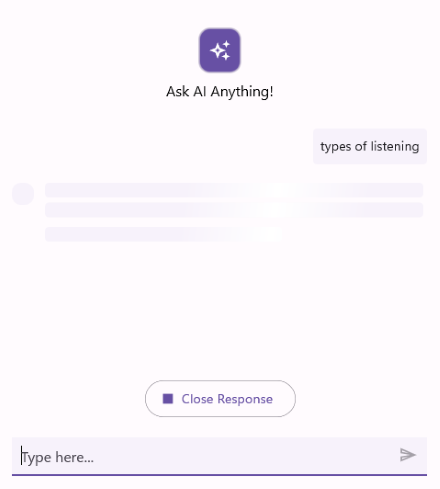
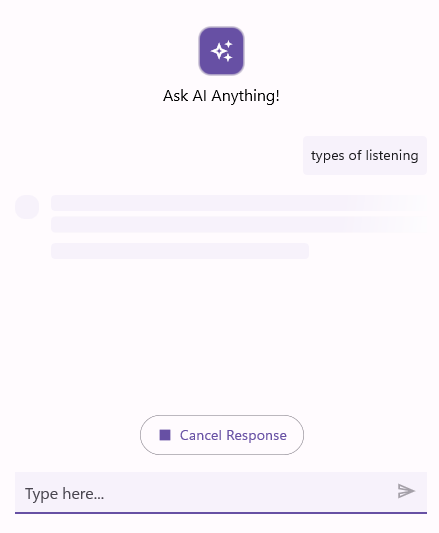
adding review corrections

diff --git a/MAUI/AIAssistView/working-with-aiassistview.md b/MAUI/AIAssistView/working-with-aiassistview.md
@@ -120,7 +120,7 @@ The `SfAIAssistView` control allows you to set custom text for the StopRespondin
 {% highlight xaml tabtitle="MainPage.xaml" hl_lines="2" %}
 
     <syncfusion:SfAIAssistView x:Name="sfAIAssistView"
-                               StopRespondingText="Close Response"/>  
+                               StopRespondingText="Cancel Response"/>  
 
 {% endhighlight %} 
 
@@ -131,7 +131,7 @@ The `SfAIAssistView` control allows you to set custom text for the StopRespondin
     { 
         InitializeComponent(); 
         this.sfAIAssistView = new SfAIAssistView();
-        this.sfAIAssistView.StopRespondingText = "Close Response";
+        this.sfAIAssistView.StopRespondingText = "Cancel Response";
         this.Content = sfAIAssistView; 
     } 
 
@@ -140,7 +140,7 @@ The `SfAIAssistView` control allows you to set custom text for the StopRespondin
 
 ![Stop Responding Text in .NET MAUI AI AssistView](Images/working-with-aiassistview/maui-aiassistview-stopresondingtext.png)
 
-### StopResponding Customization
+### StopResponding UI Customization
 
 The `SfAIAssistView` control allows you to fully customize the Stop Responding view appearance by using the [StopRespondingTemplate](https://help.syncfusion.com/cr/maui/Syncfusion.Maui.AIAssistView.SfAIAssistView.html#Syncfusion_Maui_AIAssistView_SfAIAssistView_StopRespondingTemplate) property. This property lets you define a custom layout and style for the StopResponding UI.
 
